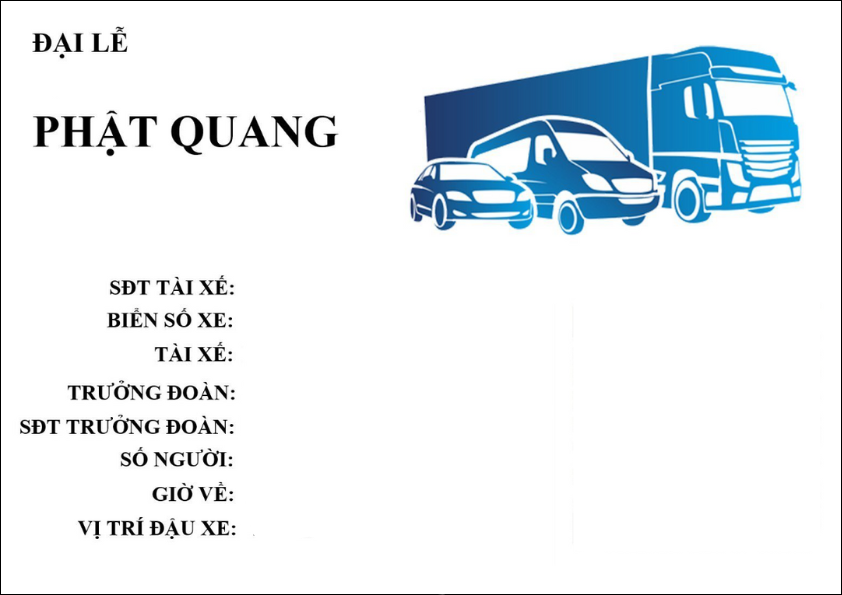
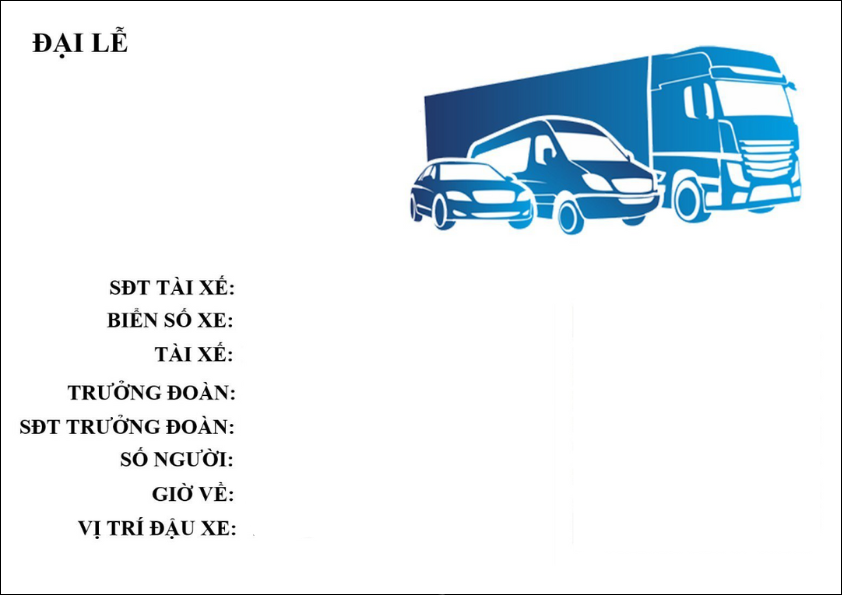
update

Changed region(s): [[0.0309, 0.1815, 0.4014, 0.2723]]

diff --git a/src/components/pages/FormInforPage/SumaryInfoImage.jsx b/src/components/pages/FormInforPage/SumaryInfoImage.jsx
@@ -23,15 +23,13 @@ export default function SumaryInfoImage() {
     name_tai_xe: contextForm?.name_tai_xe,
     phone_truong_doan: infoUser?.Phone,
     name_truong_doan: infoUser?.Name,
-    bien_so: contextForm.bien_so,
-    type: infoUser?.Type,
+    bien_so: contextForm?.bien_so,
+    type: infoUser?.Type.split("|"),
     so_luong_nguoi: `${
       contextForm?.number_of_people
     }/${contextForm?.type_car?.label?.substring(0, 2)}`,
     thoi_gian_roi_chua: formatDateTime(contextForm?.time_leave_pagoda || ""),
-    vi_tri_dau: infoUser?.Khu_vuc
-      ? `${infoUser?.Khu_vuc} - ${infoUser?.Vi_tri}`
-      : "",
+    vi_tri_dau: infoUser?.Vi_tri ? `${infoUser?.Vi_tri}` : "",
   };
   const handleDownload = () => {
     const uri = imageRef.current.toDataURL();
@@ -66,17 +64,30 @@ export default function SumaryInfoImage() {
         size={250}
         includeMargin={true}
         level={"H"}
-        className="rounded-xl border p-2 hidden"
+        className="rounded-xl border p-2 hidden "
       />
       <Stage width={842} height={595} ref={imageRef} className="hidden">
         <Layer>
           <Image image={imageDP} />
           <Image image={imageQR} width={258} height={258} x={570} y={257} />
           <Text
-            text={data.type.toUpperCase()}
+            text={
+              data?.type[0].toUpperCase() == "CTN"
+                ? "CHÚNG THANH NIÊN"
+                : "ĐẠO TRÀNG"
+            }
             x={32}
             y={68}
             fontSize={32}
+            fill="black"
+            fontFamily="TimeNewRoman"
+            fontStyle="bold"
+          />
+          <Text
+            text={data?.type[1].toUpperCase()}
+            x={32}
+            y={120}
+            fontSize={35}
             fill="black"
             fontFamily="TimeNewRoman"
             fontStyle="bold"

diff --git a/src/components/pages/ThuKy/ItemUser.jsx b/src/components/pages/ThuKy/ItemUser.jsx
@@ -26,9 +26,10 @@ export default function ItemUser({ dataItem, type }) {
       number_of_people: dataItem?.number_of_people || "",
       type_car: dataItem["type_car(chỗ)"] || "",
       id: dataToId,
-      type: type?.replace("|", " "),
+      type: type,
       name_tai_xe: dataItem?.name_tai_xe,
       phone_tai_xe: dataItem?.phone_tai_xe,
+      vi_tri: dataItem["vi_tri(Xxx)"] || "",
     };
     addUserByThuKy(data);
   };
@@ -73,6 +74,9 @@ export default function ItemUser({ dataItem, type }) {
                       "chưa có"}
                   </p>
                 </li>
+                <li>
+                  <p>Vị trí: {dataItem["vi_tri(Xxx)"] || "chưa có"}</p>
+                </li>
               </ul>
             </div>
             <div className="bg-gray-300 h-1 w-full rounded-xl my-3"></div>
@@ -95,7 +99,8 @@ export default function ItemUser({ dataItem, type }) {
                   dataItem["time_leave_pagoda(dd-mm-yyyy|hh:mm)"] || ""
                 }
                 id={dataToId}
-                type={type?.split("|")[0]}
+                type={type?.split("|")}
+                vi_tri_dau={dataItem["vi_tri(Xxx)"] || ""}
               />
             </div>
           </div>

diff --git a/src/components/pages/ThuKy/DownloadImage.jsx b/src/components/pages/ThuKy/DownloadImage.jsx
@@ -76,13 +76,22 @@ export default function DownloadImage({
           <Image image={imageQR} width={258} height={258} x={570} y={257} />
           <Text
             text={
-              data?.type?.toUpperCase() == "CTN"
+              data?.type[0].toUpperCase() == "CTN"
                 ? "CHÚNG THANH NIÊN"
                 : "ĐẠO TRÀNG"
             }
             x={32}
             y={68}
             fontSize={32}
+            fill="black"
+            fontFamily="TimeNewRoman"
+            fontStyle="bold"
+          />
+          <Text
+            text={data?.type[1].toUpperCase()}
+            x={32}
+            y={120}
+            fontSize={35}
             fill="black"
             fontFamily="TimeNewRoman"
             fontStyle="bold"

diff --git a/src/components/layout/layouts/FormLayout.jsx b/src/components/layout/layouts/FormLayout.jsx
@@ -5,6 +5,7 @@ import { DialogComponet, Loading } from "../../common";
 import Previous from "../../model/FormStep/common/Previous";
 import Next_Submit from "../../model/FormStep/common/Next_Submit";
 import HeaderStep from "../../model/FormStep/common/HeaderStep";
+import SumaryInfoImage from "../../pages/FormInforPage/SumaryInfoImage";
 
 export default function FormLayout() {
   const [isShow, setIsShow] = useState();
@@ -23,6 +24,7 @@ export default function FormLayout() {
   }, [isOpen]);
   return (
     <>
+      {/* <SumaryInfoImage /> */}
       <DialogComponet />
       <div className="relative flex flex-col flex-1">
         {isLoading && <Loading />}

diff --git a/src/hooks/useAppScript.jsx b/src/hooks/useAppScript.jsx
@@ -129,6 +129,7 @@ const useAppScript = () => {
     type_car,
     number_of_people,
     time_leave_pagoda,
+    vi_tri,
   }) => {
     setIsLoadding(true);
     setIsError(null);
@@ -162,6 +163,9 @@ const useAppScript = () => {
       formData.append("time_leave_pagoda", time_leave_pagoda || "");
       formData.append("bien_so", bien_so || "");
       formData.append("type", type);
+      formData.append("vi_tri", vi_tri || "");
+      formData.append("status", "CHUA_VE");
+
       const addUser = await axios.post(urlServer, formData);
 
       if (addUser.data.status == 200) {

diff --git a/src/hooks/useAdmin.jsx b/src/hooks/useAdmin.jsx
@@ -26,7 +26,7 @@ const useAdmin = () => {
       if (res.data.status == 200) {
         dispatch(updateInfo(res.data.data));
         if (res.data.data.Role == "admin") {
-          navigate("/ctn_dt");
+          navigate("/thu-ky");
         }
         if (res.data.data.Role == "super-admin") {
           navigate("/add_admin");

diff --git a/src/components/pages/FormInforPage/dataSelect.jsx b/src/components/pages/FormInforPage/dataSelect.jsx
@@ -1,4 +1,4 @@
-const listType = ["4 chỗ", "7 chỗ", "16 chỗ", "42 chỗ", "50 chỗ"];
+const listType = ["4 chỗ", "7 chỗ", "16 chỗ", "42 chỗ", "50 chỗ", "30 chỗ"];
 const handleGenerateOption = ({ list }) => {
   const arr = [];
   list.map((item) => {

diff --git a/src/components/pages/ThuKy/index.jsx b/src/components/pages/ThuKy/index.jsx
@@ -5,6 +5,7 @@ import ItemUser from "./ItemUser";
 export default function ThuKy() {
   const dataExcel = useSelector((state) => state.excelSlice);
   const type = dataExcel.data?.name_DT_CTN;
+  console.log(dataExcel.data);
   return (
     <div>
       <Header />
